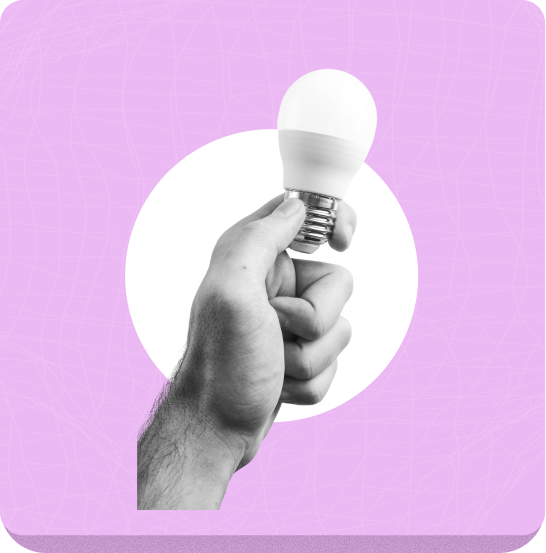
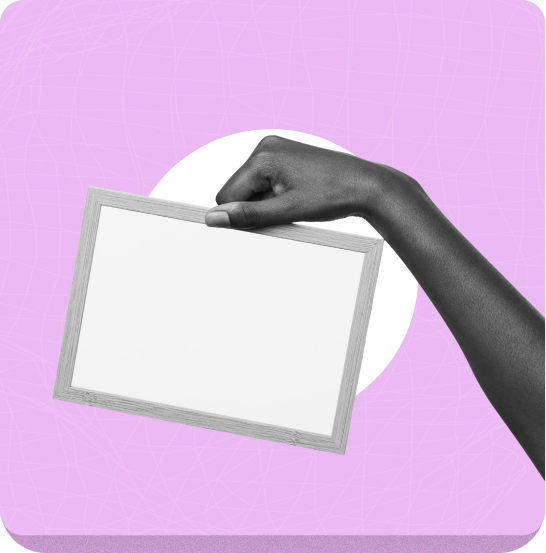
card images

diff --git a/components/PersonalBanking.tsx b/components/PersonalBanking.tsx
@@ -12,7 +12,7 @@ interface AnimateItem {
 
 const animate: AnimateItem[] = [
   {
-    src: "/images/stock-01.png",
+    src: "/images/stock-10.png",
     header: "Access Fast Micro-Loans",
     text: "Get flexible loans tailored to your personal needs. Enjoy rapid approvals and easy repayment options.",
   },
@@ -27,7 +27,7 @@ const animate: AnimateItem[] = [
     text: "Pay for electricity, internet, TV subscriptions, and more in just a few taps.",
   },
   {
-    src: "/images/stock-4.png",
+    src: "/images/stock-04.png",
     header: "Zero Hidden Charges",
     text: "No hidden fees, no surprises. We maintain total transparency so you always know where your money goes.",
   },
@@ -89,7 +89,7 @@ export default function PersonalBanking() {
 
           <div
             className="mt-5 md:mt-20 lg:mt-120 xl:mt-100 h-[350]
-              items-center   md:h-[850]  lg:h-full lg:w-[58%] xl:w-[50%]  flex justify-center"
+              items-center   md:h-full  lg:h-full  xl:w-[50%] flex justify-center"
             onTouchStart={(e) => {
               touchStartX.current = e.changedTouches[0].clientX;
             }}
@@ -103,23 +103,23 @@ export default function PersonalBanking() {
               height={400}
               src={animate[activeIndex].src}
               alt="personal banking"
-              className="transition-all w-full lg:w-[80%]  h-fit duration-500"
+              className="transition-all w-full md:w-[50%] lg:w-[80%]  h-fit duration-500"
             />
           </div>
 
           {/* Header Text */}
-          <div className=" flex flex-row lg:flex-col gap-8 md:gap-30   md:mt-20 w-fit  ml-auto">
+          <div className=" flex flex-row lg:flex-col gap-8 md:gap-30 md:mt-20 w-full lg:w-fit  ml-auto">
             <div className="hidden lg:flex flex-col gap-2 md:gap-4  ml-auto ">
               <h3 className="md:text-[18px] text-[#2B74BD] leading-5.75 ">
                 PERSONAL BANKING
               </h3>
-              <h3 className="text-[30px] md:text-[50px] leading-15.75 text-black">
+              <h3 className="text-[30px] md:text-[50px] lg:w-100 leading-15.75 text-black">
                 RoutePay For Everyone
               </h3>
             </div>
 
             {/* Carousel Texts */}
-            <div className="flex flex-col lg:flex-row  gap-4  ml-auto lg:gap-7">
+            <div className="flex flex-col lg:flex-row  gap-4  lg:ml-auto w-full lg:gap-7">
               <div className="flex lg:hidden flex-row justify-center items-center gap-2 mt-8">
                 {animate.map((_, index) => (
                   <button
@@ -142,11 +142,11 @@ export default function PersonalBanking() {
                   }}
                 ></div>
               </div>
-              <div className="flex  flex-col  lg:w-100 gap-14 cursor-pointer">
+              <div className="flex  flex-col w-full lg:w-100 gap-14 cursor-pointer">
                 {animate.map((item, index) => {
                   return (
                     <div
-                      className={`flex flex-col gap-8 transition-all duration-500 ${
+                      className={`flex flex-col w-full gap-8 transition-all duration-500 ${
                         index === activeIndex
                           ? "opacity-100 translate-x-0"
                           : "opacity-100 translate-x-2 hidden lg:flex"

diff --git a/components/GovtBanking.tsx b/components/GovtBanking.tsx
@@ -23,12 +23,12 @@ const animate: AnimateItem[] = [
     text: "Simplify payments for permits, registrations, and licenses with fast, user-friendly processing, instant confirmations.",
   },
   {
-    src: "/images/icon-2.png",
+    src: "/images/icon-03.png",
     header: "Regulatory Fees",
     text: "Streamline the collection of regulatory and administrative fees with automated reconciliation, transparent reporting.",
   },
   {
-    src: "/images/icon-4.png",
+    src: "/images/icon-04.png",
     header: "Institutional Payments",
     text: "Manage payments for public institutions such as schools and agencies with audit-ready records, secure transaction history.",
   },
@@ -98,7 +98,7 @@ export default function GovtBanking() {
               </div>
             </div>
             <div
-              className="h-[340] bg-green-300 lg:hidden flex items-center justify-center"
+              className="h-[340] md:h-full lg:h-[700] lg:hidden flex items-center justify-center"
               onTouchStart={(e) => {
                 touchStartX.current = e.changedTouches[0].clientX;
               }}
@@ -112,7 +112,7 @@ export default function GovtBanking() {
                 height={500}
                 src={animate[activeIndex].src}
                 alt="government banking"
-                className="transition-all w-full h-fit duration-500"
+                className="transition-all w-full md:w-[505] h-fit duration-500"
               />
             </div>
 

diff --git a/app/about/page.tsx b/app/about/page.tsx
@@ -112,7 +112,7 @@ export default function AboutPage() {
                 ABOUT US
               </h3>
               <h1 className="text-[40px] md:text-[60px] xl:text-[70px] md:leading-22 text-black ">
-                Powering a new generation of <br className="hidden md:block" />{" "}
+                Powering a new generation of <br className="hidden lg:block" />{" "}
                 African businesses
               </h1>
               <p className="md:text-[20px] leading-6.25 text-[#555151]">

diff --git a/next.config.ts b/next.config.ts
@@ -2,7 +2,7 @@ import type { NextConfig } from "next";
 
 const nextConfig: NextConfig = {
   /* config options here */
-  allowedDevOrigins: ["10.47.54.185", "10.47.54.48"],
+  allowedDevOrigins: ["10.47.54.185", "10.47.54.48", '192.168.1.179'],
 };
 
 export default nextConfig;
